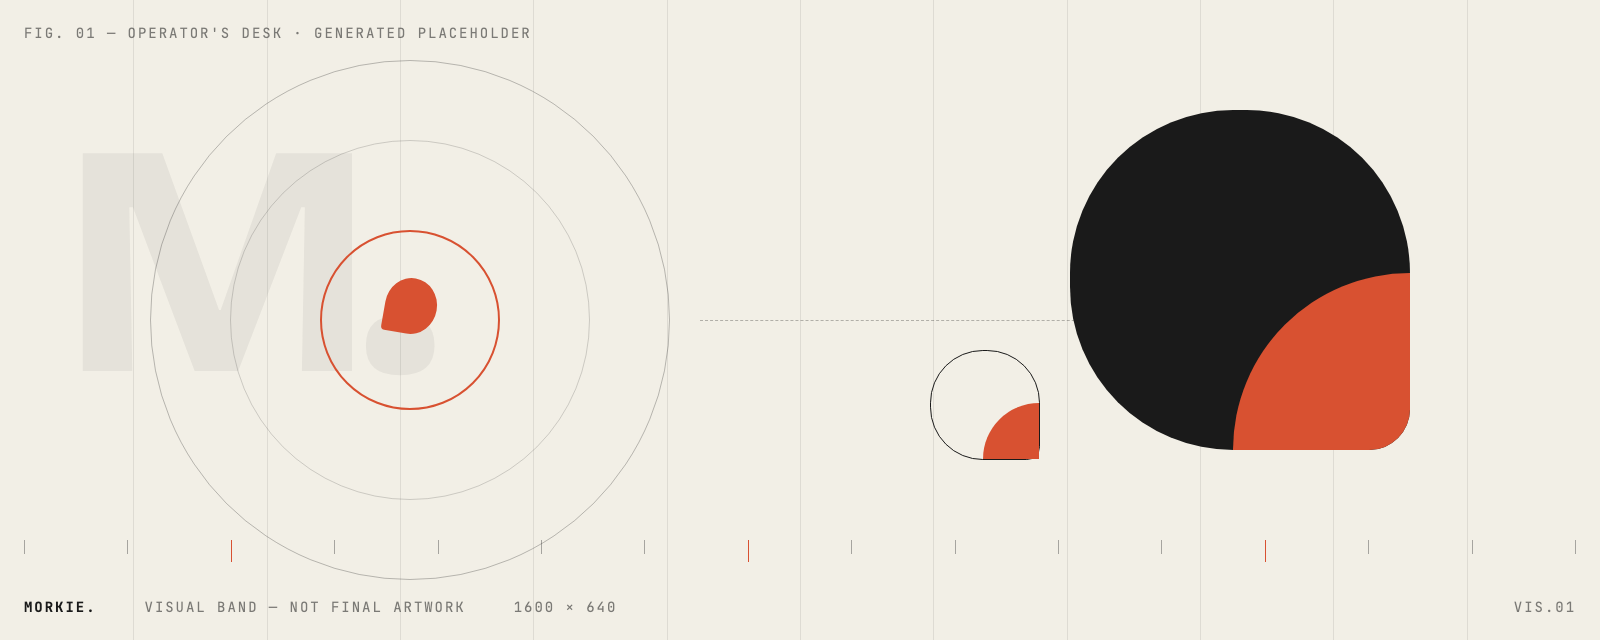
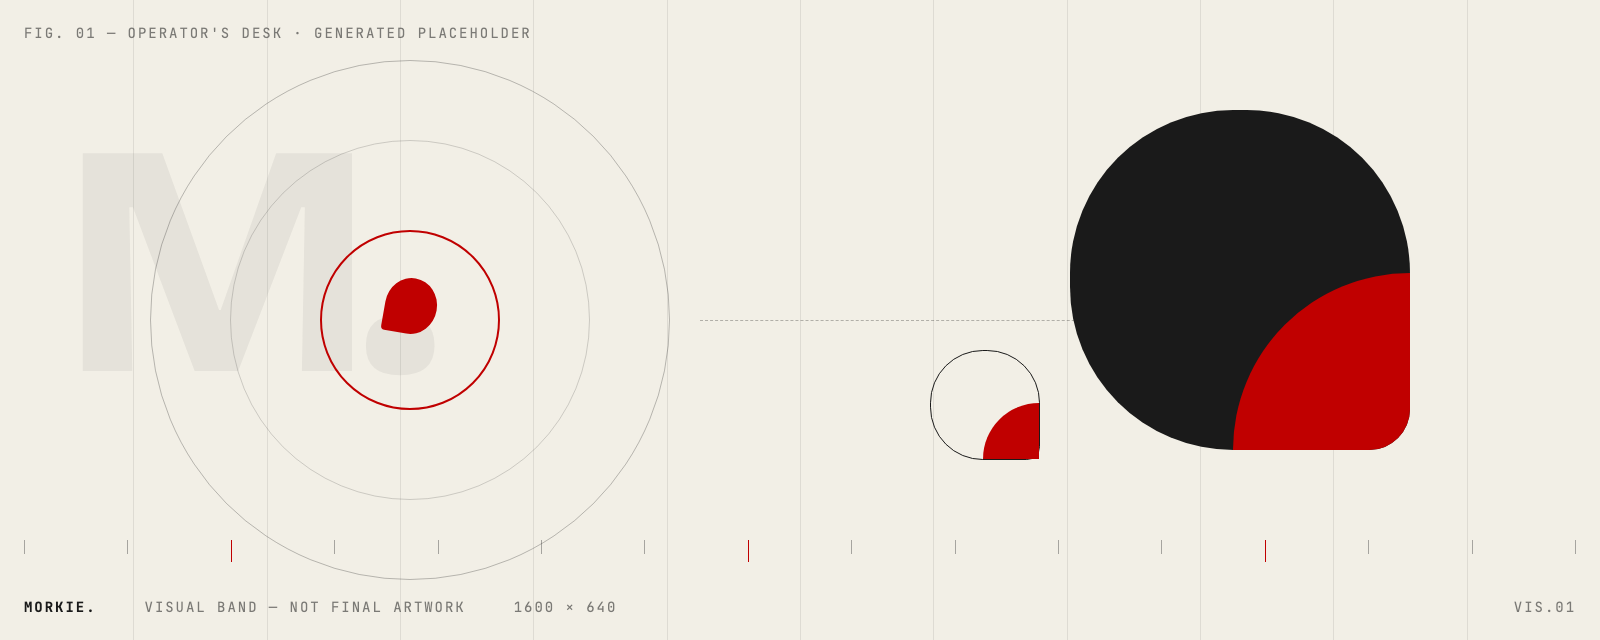
style(theme): switch accent to #C00000
Vermilion → deep red; generated assets (hero band, work mockups, og card)
re-rendered so the old orange doesn't linger.

diff --git a/src/lib/kit/skin.css b/src/lib/kit/skin.css
@@ -6,7 +6,7 @@
 	--color-surface: #faf7ef;
 	--color-cream: #f2efe6;
 	--color-sand: #e9e4d8;
-	--color-accent: #d85131;
+	--color-accent: #c00000;
 	--color-foreground: #1a1a1a;
 	--color-ink-soft: #333333;
 	--color-border: #dddddd;
